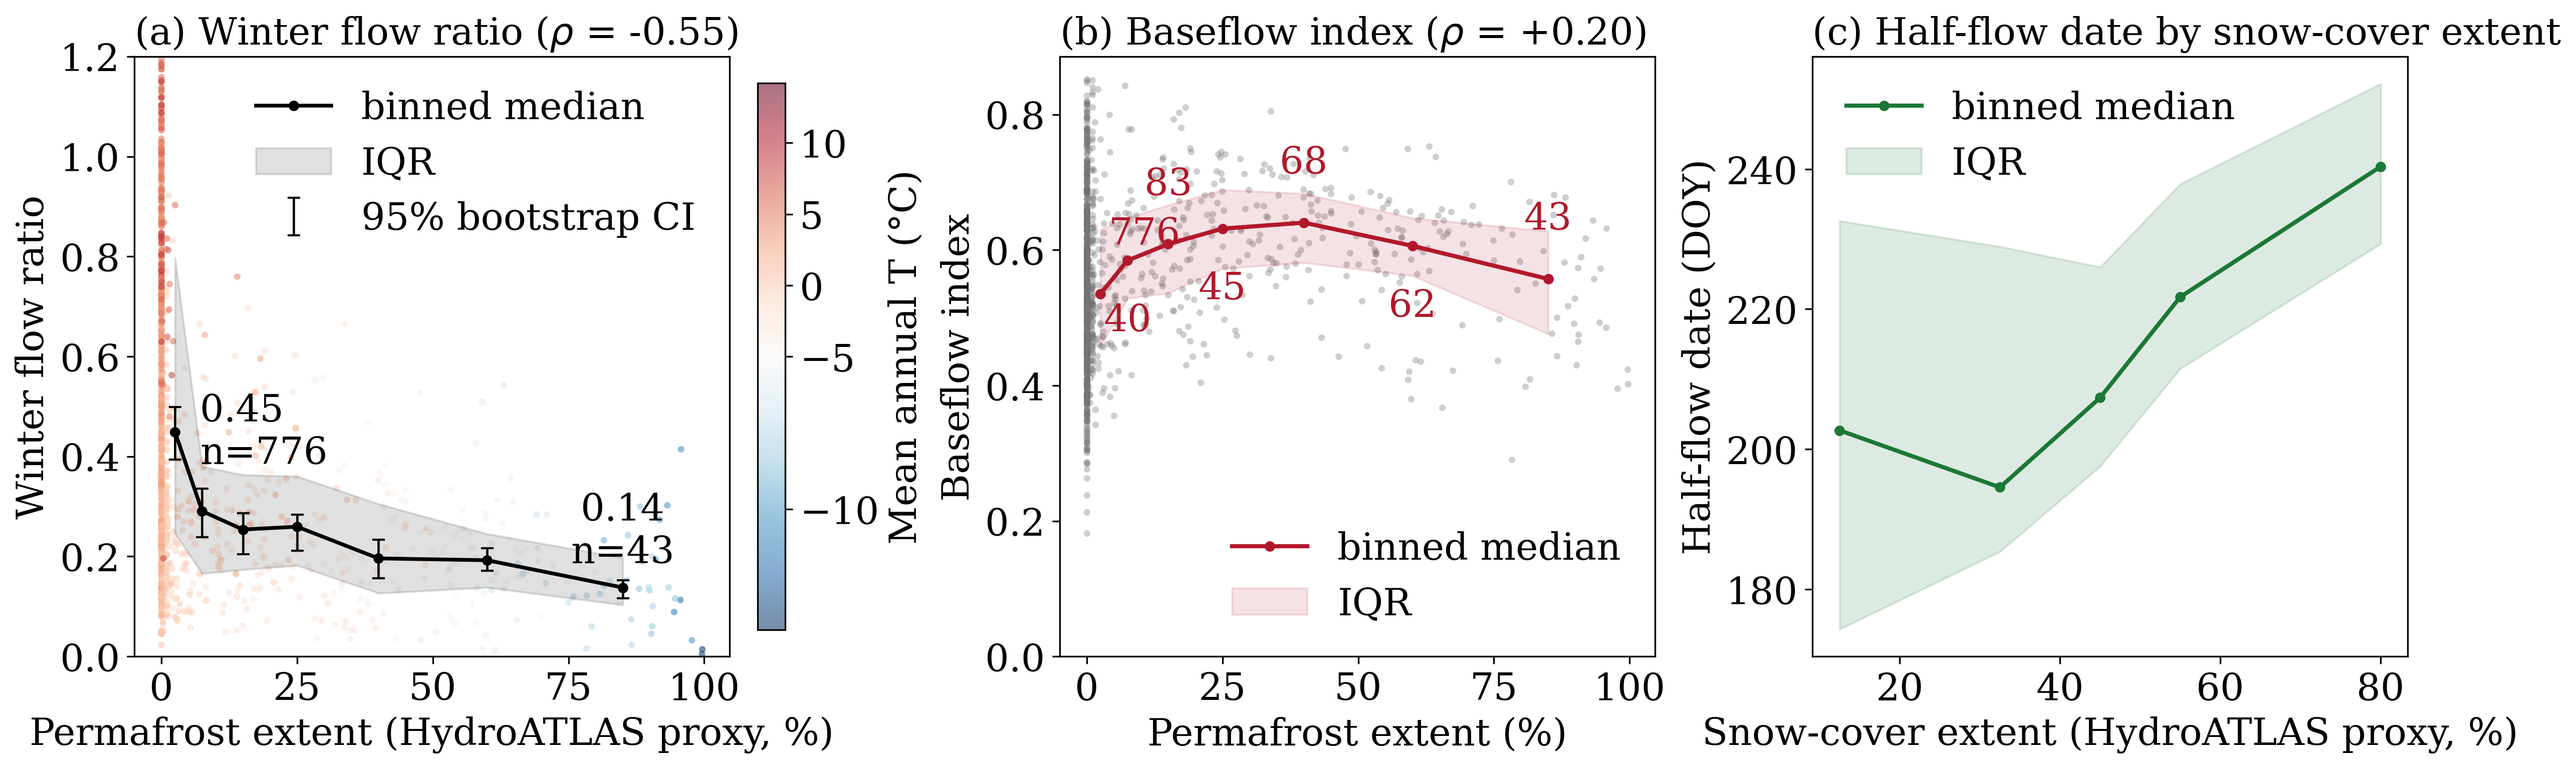
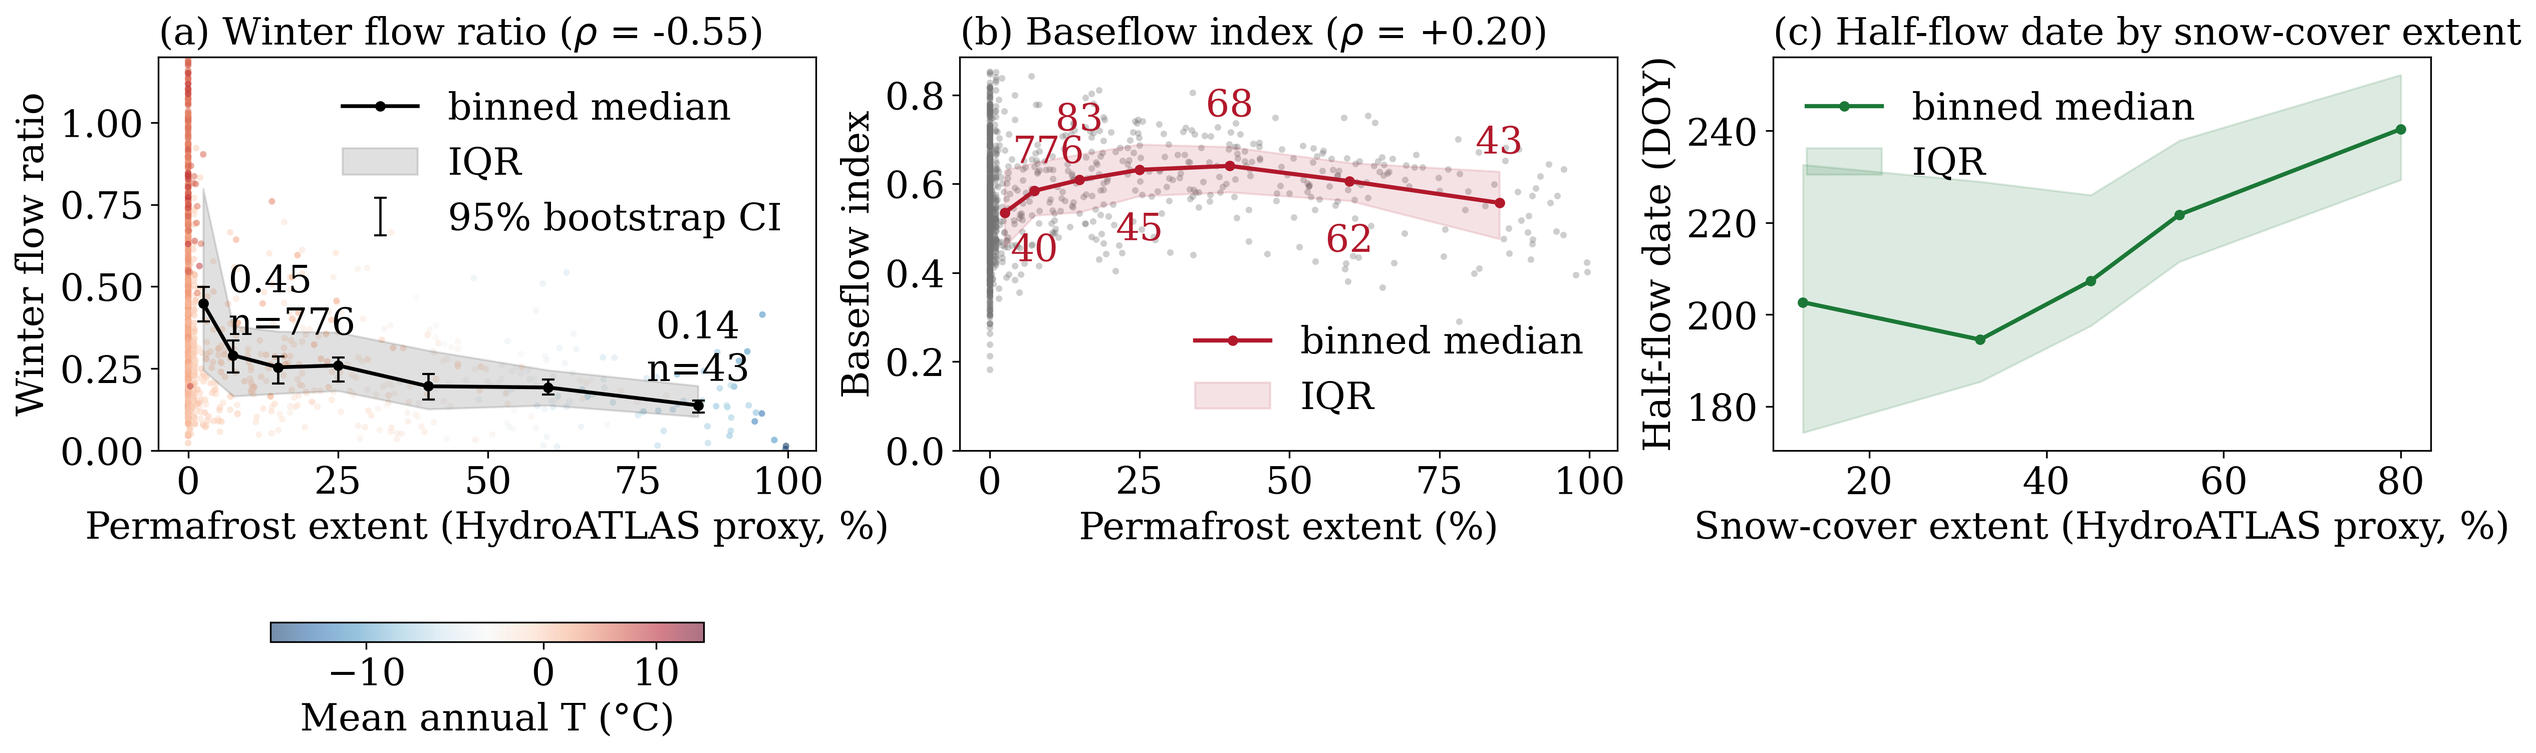
feat(figs): unified map furniture + round-9 figure fixes
Shared add_scale_bar() in paper_maps (lifted from the gauge-network
script) + bottom-row-only graticule longitude labels; Fig 7 horizontal
colorbar below panel (a); Fig 1 rebalanced (6.6 in height, label inside
frame); scale bar on every map figure; Figs 3-4 bar re-placed lower-right
after review. All six regenerated figures md5-identical across both image
dirs. Submodule bump: round-9 majors 5-12.

Claude-Session: https://claude.ai/code/session_01E7YWKvkoaSFZxKDhty2sEV

diff --git a/src/plots/paper_maps.py b/src/plots/paper_maps.py
@@ -125,13 +125,16 @@ def _add_graticule(
     lat_step: int = 10,
     draw_labels: bool = False,
     label_size: int = 6,
+    bottom_labels: bool = True,
 ) -> None:
     """Add a subtle lat/lon graticule to a GeoAxes.
 
     Meridians every *lon_step* degrees and parallels every *lat_step* degrees
     are drawn as thin, light-grey dashed lines underneath the data layer.
     Labels (bottom/left only) are rendered at *label_size* points when
-    *draw_labels* is True.
+    *draw_labels* is True. Set *bottom_labels=False* for the upper panel(s) of
+    a vertically stacked figure sharing one extent, so longitude labels don't
+    collide with the next panel's title.
     """
     gl = ax.gridlines(
         crs=_DATA_CRS,
@@ -147,8 +150,47 @@ def _add_graticule(
     if draw_labels:
         gl.top_labels = False
         gl.right_labels = False
+        gl.bottom_labels = bottom_labels
         gl.xlabel_style = {"size": label_size, "color": "#555555"}
         gl.ylabel_style = {"size": label_size, "color": "#555555"}
+
+
+def add_scale_bar(
+    ax: Axes,
+    length_km: float = 1000,
+    loc: tuple[float, float] = (0.05, 0.06),
+    fontsize: int = 12,
+) -> None:
+    """Draw a simple linear scale bar directly in the GeoAxes' own (projected) units.
+
+    Valid because the axes use the Albers equal-area conic projection (`get_russia_projection`),
+    so a straight length in projected meters is a defensible, if not geodesically exact, distance.
+    Shared by every map figure so the "scale bar is approximate" caption sentence holds everywhere.
+
+    Args:
+        ax: GeoAxes with its extent already set (xlim/ylim in projected meters).
+        length_km: Bar length in kilometres.
+        loc: (x, y) fraction of the current axes extent for the bar's left end.
+        fontsize: Label font size; caller picks a value that clears the 7pt print floor for
+            that figure's own textwidth shrink factor.
+    """
+    xlim, ylim = ax.get_xlim(), ax.get_ylim()
+    x0 = xlim[0] + loc[0] * (xlim[1] - xlim[0])
+    y0 = ylim[0] + loc[1] * (ylim[1] - ylim[0])
+    length_m = length_km * 1000.0
+    tick = 0.012 * (ylim[1] - ylim[0])
+    ax.plot([x0, x0 + length_m], [y0, y0], color="black", linewidth=1.6, solid_capstyle="butt", zorder=6)
+    for x in (x0, x0 + length_m):
+        ax.plot([x, x], [y0 - tick, y0 + tick], color="black", linewidth=1.2, zorder=6)
+    ax.text(
+        x0 + length_m / 2,
+        y0 + tick * 1.6,
+        f"{int(length_km)} km",
+        ha="center",
+        va="bottom",
+        fontsize=fontsize,
+        zorder=6,
+    )
 
 
 def _auto_bins(values: np.ndarray, n_bins: int = 6) -> np.ndarray:
@@ -181,6 +223,7 @@ def scatter_map(
     colorbar_ticklabelsize: int = 9,
     graticule_labels: bool = False,
     graticule_label_size: int = 7,
+    graticule_bottom_labels: bool = True,
 ) -> Axes:
     """Plot continuous-valued scatter map on a single axis.
 
@@ -224,7 +267,12 @@ def scatter_map(
     # Set extent from data, then draw background clipped to it
     _hide_frame(ax)
     _set_extent_from_data(ax, gdf)
-    _add_graticule(ax, draw_labels=graticule_labels, label_size=graticule_label_size)
+    _add_graticule(
+        ax,
+        draw_labels=graticule_labels,
+        label_size=graticule_label_size,
+        bottom_labels=graticule_bottom_labels,
+    )
 
     if background_gdf is not None:
         aea_proj4 = get_russia_projection().proj4_init
@@ -319,6 +367,8 @@ def continuous_multiplot(
     background_gdf: gpd.GeoDataFrame | None = None,
     title_fontsize: int = 12,
     colorbar_ticklabelsize: int = 9,
+    graticule_labels: bool = False,
+    graticule_label_size: int = 7,
 ) -> Figure:
     """Create N-panel scatter maps with colorbars for continuous metrics.
 
@@ -381,6 +431,10 @@ def continuous_multiplot(
 
         edges = bin_intervals.get(metric)
         cb_label = colorbar_labels.get(metric, "")
+        # All panels share one extent, stacked in rows: a non-bottom-row panel's longitude
+        # labels would sit directly above the next row's title, so only the actual bottom
+        # row gets them (matches the fix used for fig_gauge_reliability's stacked panels).
+        is_bottom_row = row == nrows - 1
 
         scatter_map(
             gdf,
@@ -396,6 +450,9 @@ def continuous_multiplot(
             background_gdf=background_gdf,
             title_fontsize=title_fontsize,
             colorbar_ticklabelsize=colorbar_ticklabelsize,
+            graticule_labels=graticule_labels,
+            graticule_label_size=graticule_label_size,
+            graticule_bottom_labels=is_bottom_row,
         )
 
     # Hide unused axes

diff --git a/scripts/regenerate_gauge_network_figure.py b/scripts/regenerate_gauge_network_figure.py
@@ -129,38 +129,6 @@ def _size_label(category: str) -> str:
     return f"{_thousands(nums[0])}–{_thousands(nums[1])}"
 
 
-def _add_scale_bar(
-    ax: plt.Axes, length_km: float = 1000, loc: tuple[float, float] = (0.05, 0.06)
-) -> None:
-    """Draw a simple linear scale bar directly in the GeoAxes' own (projected) units.
-
-    Valid because the axes use the Albers equal-area conic projection (`get_russia_projection`),
-    so a straight length in projected meters is a defensible, if not geodesically exact, distance.
-
-    Args:
-        ax: GeoAxes with its extent already set (xlim/ylim in projected meters).
-        length_km: Bar length in kilometres.
-        loc: (x, y) fraction of the current axes extent for the bar's left end.
-    """
-    xlim, ylim = ax.get_xlim(), ax.get_ylim()
-    x0 = xlim[0] + loc[0] * (xlim[1] - xlim[0])
-    y0 = ylim[0] + loc[1] * (ylim[1] - ylim[0])
-    length_m = length_km * 1000.0
-    tick = 0.012 * (ylim[1] - ylim[0])
-    ax.plot([x0, x0 + length_m], [y0, y0], color="black", linewidth=1.6, solid_capstyle="butt", zorder=6)
-    for x in (x0, x0 + length_m):
-        ax.plot([x, x], [y0 - tick, y0 + tick], color="black", linewidth=1.2, zorder=6)
-    ax.text(
-        x0 + length_m / 2,
-        y0 + tick * 1.6,
-        f"{int(length_km)} km",
-        ha="center",
-        va="bottom",
-        fontsize=14,
-        zorder=6,
-    )
-
-
 def classify_catchments() -> pd.Series:
     """Köppen-Geiger class per catchment from the released forcing climatology.
 
@@ -233,19 +201,24 @@ def build_figure(gauge: gpd.GeoDataFrame, size_counts: pd.Series) -> plt.Figure:
     aea = get_russia_projection()
     data_crs = ccrs.PlateCarree()
 
-    fig = plt.figure(figsize=(13.0, 4.4), constrained_layout=True)
+    # Editor pre-review: the map (a GeoAxes) keeps its aspect fixed to the Albers projection,
+    # so it is height-bound, not width-bound by width_ratios below - at figsize (13,4.4) it
+    # rendered at only ~26% of the figure width regardless of its 2.7/3.7 gridspec share,
+    # leaving a large dead gutter before panel (b). Taller figure gives it more height to
+    # grow into (measured via ax_map.get_position() after constrained_layout, not eyeballed).
+    fig = plt.figure(figsize=(13.0, 6.6), constrained_layout=True)
     gs = fig.add_gridspec(1, 2, width_ratios=[2.7, 1])
     ax_map = fig.add_subplot(gs[0, 0], projection=aea)
     ax_hist = fig.add_subplot(gs[0, 1])
 
     ax_map.axis("off")
-    _set_extent_from_data(ax_map, gauge)
+    _set_extent_from_data(ax_map, gauge, pad=0.04)  # tighter than the 0.08 default
     # Editor pre-review: no coordinate reference on the map. Graticule labels sized for the
     # same font floor as the other figures (~0.54x shrink at \textwidth from this 13in figure).
-    from src.plots.paper_maps import _add_graticule
+    from src.plots.paper_maps import _add_graticule, add_scale_bar
 
     _add_graticule(ax_map, draw_labels=True, label_size=14)
-    _add_scale_bar(ax_map, length_km=1000)
+    add_scale_bar(ax_map, length_km=1000, fontsize=14)
     ne_land = gpd.read_file(GEOM_DIR / "ne_land_clipped.gpkg")
     ne_land.to_crs(aea.proj4_init).plot(
         ax=ax_map, color="#EDEDED", edgecolor="#CCCCCC", linewidth=0.3, zorder=1
@@ -347,7 +320,9 @@ def build_figure(gauge: gpd.GeoDataFrame, size_counts: pd.Series) -> plt.Figure:
     ax_hist.set_title("(b) Size distribution", fontsize=13, fontweight="bold", loc="left")
     ax_hist.grid(alpha=0.15, axis="x", linestyle="--")
     ax_hist.invert_yaxis()
-    ax_hist.set_xlim(0, float(size_counts.max()) * 1.18)
+    # 1.18 left the "1257" count label (13pt, widened by the font-floor fix) printing
+    # outside the axes frame for the largest bar; more headroom fixes it.
+    ax_hist.set_xlim(0, float(size_counts.max()) * 1.3)
     for bar, cnt in zip(bars, size_counts.values, strict=False):
         ax_hist.text(
             cnt + 20,

diff --git a/scripts/plot_gauge_reliability.py b/scripts/plot_gauge_reliability.py
@@ -133,10 +133,27 @@ def load_gauges() -> gpd.GeoDataFrame:
     return gauge
 
 
-def _basemap(ax: plt.Axes, gauge: gpd.GeoDataFrame, aea: ccrs.Projection) -> None:
-    """Shared extent and Natural Earth landmass background for one panel."""
+def _basemap(
+    ax: plt.Axes, gauge: gpd.GeoDataFrame, aea: ccrs.Projection, *, bottom_labels: bool = True
+) -> None:
+    """Shared extent and Natural Earth landmass background for one panel.
+
+    Args:
+        ax: GeoAxes to draw on.
+        gauge: Gauge points defining the shared extent.
+        aea: Albers projection.
+        bottom_labels: False for the upper panel of this two-panel stack (both panels
+            share the same extent), so its longitude labels don't collide with the
+            lower panel's title directly beneath it.
+    """
     ax.axis("off")
     _set_extent_from_data(ax, gauge)
+    # Map-furniture consistency pass: labelled graticule on every map figure (same style as
+    # fig_gauge_network/fig_precip_comparison). Prints at 0.84\textwidth from a 9.5in source
+    # (~0.62x shrink), so 12pt clears the 7pt floor (12*0.62=7.4).
+    from src.plots.paper_maps import _add_graticule
+
+    _add_graticule(ax, draw_labels=True, label_size=12, bottom_labels=bottom_labels)
     ne_land = gpd.read_file(GEOM_DIR / "ne_land_clipped.gpkg")
     ne_land.to_crs(aea.proj4_init).plot(
         ax=ax, color="#EDEDED", edgecolor="#CCCCCC", linewidth=0.3, zorder=1
@@ -249,10 +266,16 @@ def build_figure(gauge: gpd.GeoDataFrame) -> plt.Figure:
     fig, axes = plt.subplots(
         2, 1, figsize=(9.5, 9.2), subplot_kw={"projection": aea}, constrained_layout=True
     )
-    for ax in axes:
-        _basemap(ax, gauge, aea)
+    _basemap(axes[0], gauge, aea, bottom_labels=False)
+    _basemap(axes[1], gauge, aea)
     _panel_grades(axes[0], gauge, data_crs)
     _panel_reliability(fig, axes[1], gauge, data_crs)
+    # One scale bar for the figure (both panels share the same extent) rather than one per
+    # panel, to keep it unobtrusive. Lower-right corner: panel (a)'s grade legend already
+    # occupies lower-left.
+    from src.plots.paper_maps import add_scale_bar
+
+    add_scale_bar(axes[0], length_km=1000, loc=(0.72, 0.05), fontsize=12)
     return fig
 
 

diff --git a/scripts/plot_signature_maps.py b/scripts/plot_signature_maps.py
@@ -91,7 +91,7 @@ def build_figure(
 ) -> plt.Figure:
     """Four-panel signature map for one panel set."""
     ne_land = gpd.read_file(GEOM_DIR / "ne_land_clipped.gpkg")
-    return continuous_multiplot(
+    fig = continuous_multiplot(
         gdf=gdf,
         metrics=[c for c, _, _ in panels],
         titles=[f"({letter}) {title}" for letter, (_, title, _) in zip(letters, panels, strict=True)],
@@ -104,10 +104,22 @@ def build_figure(
         background_gdf=ne_land,
         # Font floor (ESSD editor pre-review): panels render at 0.96\textwidth from a
         # 16x8.2in figure (~0.42x shrink), so 12/9pt source text would land at ~5/4pt in
-        # print. Bumped so both clear 7pt with margin (20 * 0.42 ~= 8.4pt).
+        # print. Bumped so both clear 7pt with margin (20 * 0.42 ~= 8.4pt); same figure
+        # scale, so the graticule labels below use the same 20pt.
         title_fontsize=20,
         colorbar_ticklabelsize=20,
+        graticule_labels=True,
+        graticule_label_size=20,
     )
+    # Map-furniture consistency pass: one scale bar per figure (all 4 panels share one
+    # extent), placed on panel (a).
+    from src.plots.paper_maps import add_scale_bar
+
+    # Lower-right, not the default lower-left: at fontsize=20 "1000 km" is ~2.7x the bar
+    # width and centred on it, so a left-edge bar spills into the rotated 30°N graticule
+    # label and outside the panel frame.
+    add_scale_bar(fig.axes[0], length_km=1000, loc=(0.82, 0.06), fontsize=20)
+    return fig
 
 
 def main() -> None:

diff --git a/scripts/plot_coldregion_gradient.py b/scripts/plot_coldregion_gradient.py
@@ -220,7 +220,12 @@ def main() -> None:
     # fig.colorbar(sc, ax=ax_a, ...) reserves its space from panel (a) correctly only under
     # constrained_layout (set on the figure below); under the plain fig.tight_layout() this
     # script used before, that reservation gets reclaimed and the bar abuts panel (b) instead.
-    cb = fig.colorbar(sc, ax=ax_a, fraction=0.046, pad=0.03)
+    # Horizontal, below panel (a) rather than the default vertical-right placement: a
+    # rotated side label wide enough to clear the font floor reached past the colorbar into
+    # panel (b)'s own y-axis label (reading as if it belonged to panel (b)), and a title
+    # placed above the bar instead collided with panel (a)'s own title directly above it.
+    # Below is genuinely free - only panel (a)'s x-axis row lives there.
+    cb = fig.colorbar(sc, ax=ax_a, orientation="horizontal", fraction=0.05, pad=0.18, aspect=22)
     cb.set_label("Mean annual T (\u00b0C)", fontsize=FS)
 
     # ---- Panel B: the baseflow index over the same bins ----------------------

diff --git a/scripts/regenerate_precip_comparison_figure.py b/scripts/regenerate_precip_comparison_figure.py
@@ -162,6 +162,11 @@ def plot(df: pd.DataFrame, out: Path) -> None:
             graticule_labels=True,
             graticule_label_size=14,
         )
+    # Map-furniture consistency pass: one scale bar for the figure (both panels share the
+    # same extent), placed on panel (a).
+    from src.plots.paper_maps import add_scale_bar
+
+    add_scale_bar(axes[0], length_km=1000, fontsize=14)
 
     n = len(edges) - 1
     sm = plt.cm.ScalarMappable(norm=BoundaryNorm(edges, n), cmap=plt.get_cmap("RdBu_r", n))
